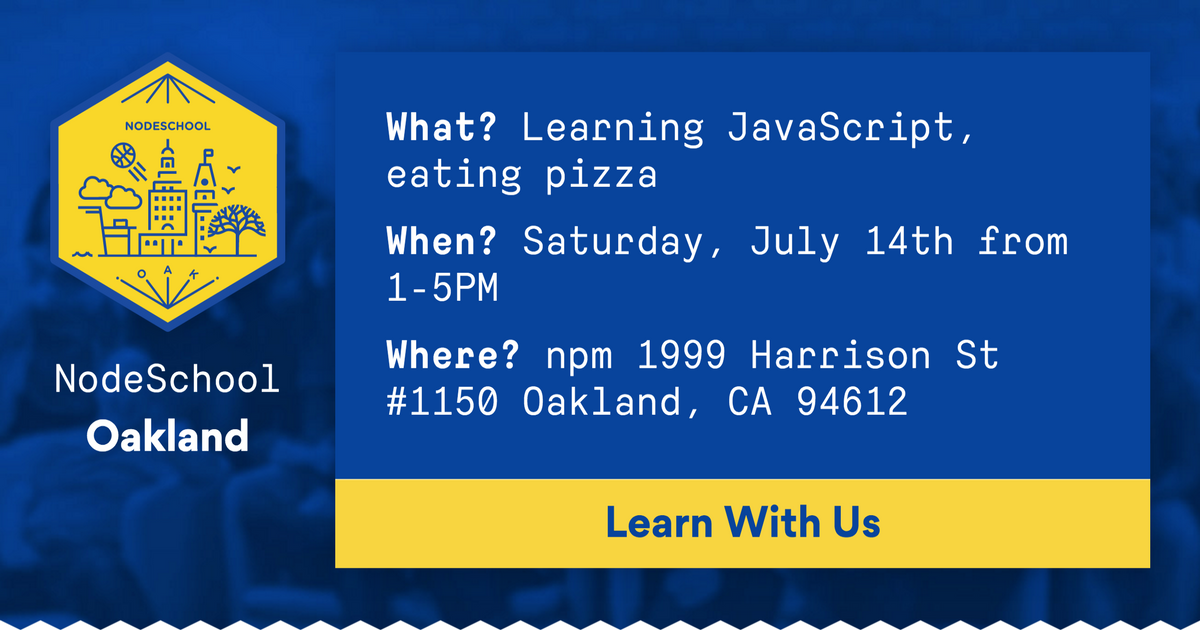
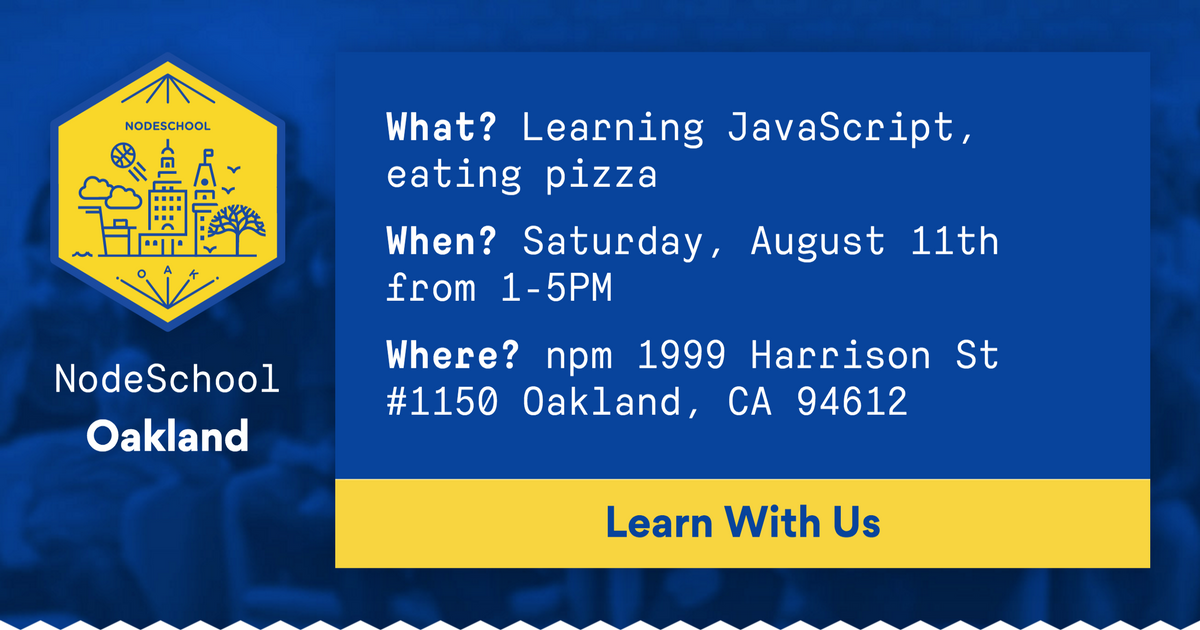
AUTOMATIC site update

Changed region(s): [[0.6167, 0.3619, 0.8942, 0.4222], [0.3083, 0.4222, 0.5242, 0.4825]]

diff --git a/docs/index.html b/docs/index.html
@@ -7,14 +7,14 @@
     <meta property="og:type" content="website" />
     <meta property="og:description" content="NodeSchool Oakland is a monthly meetup dedicated to helping people learn JavaScript." />
     <meta property="og:url" content="https://nodeschool.io/oakland/" />
-    <meta property="og:image" content="https://nodeschool.io/oakland/images/social.png?t=1530380154127" />
+    <meta property="og:image" content="https://nodeschool.io/oakland/images/social.png?t=1532454059082" />
     <!--Twitter-->
     <meta name="twitter:card" content="summary_large_image">
     <meta name="twitter:site" content="@nodeschooloak">
     <meta name="twitter:creator" content="@nodeschooloak">
     <meta name="twitter:title" content="NodeSchool Oakland">
     <meta name="twitter:description" content="NodeSchool Oakland is a monthly meetup dedicated to helping people learn JavaScript.">
-    <meta name="twitter:image" content="https://nodeschool.io/oakland/images/social.png?t=1530380154127">
+    <meta name="twitter:image" content="https://nodeschool.io/oakland/images/social.png?t=1532454059082">
 
     <title>NodeSchool Oakland</title>
     <link rel="stylesheet" href="./styles/index.css" />
@@ -63,10 +63,10 @@
 
           <div class="next-event">
             <div class="next-event__description">
-              <h2 class="next-event__heading">Our Next Event is on July 14th</h2>
+              <h2 class="next-event__heading">Our Next Event is on August 11th</h2>
               <ul class="next-event__info">
                 <li class="next-event__info__item">
-                  <strong class="strong--alt">When?</strong> Saturday, July 14th from 1-5PM
+                  <strong class="strong--alt">When?</strong> Saturday, August 11th from 1-5PM
                 </li>
                 <li class="next-event__info__item">
                   <strong class="strong--alt">Where?</strong> npm 1999 Harrison St #1150 Oakland, CA 94612 [<a href="http://maps.google.com/?q=1999%20Harrison%20St%20%231150%20Oakland%2C%20CA%2094612">map</a>]
@@ -77,9 +77,9 @@
               </ul>
             </div>
             <nav class="next-event__actions">
-              <a class="next-event__action__learner next-event__action button" href="https:&#x2F;&#x2F;ti.to&#x2F;nodeschool-oakland&#x2F;nodeschool-oakland-july-2018">
+              <a class="next-event__action__learner next-event__action button" href="https:&#x2F;&#x2F;ti.to&#x2F;nodeschool-oakland&#x2F;nodeschool-oakland-august-2018">
                 Sign up as a Learner
-              </a><a class="next-event__action__mentor next-event__action button" href="https:&#x2F;&#x2F;github.com&#x2F;nodeschool&#x2F;oakland&#x2F;issues&#x2F;64">
+              </a><a class="next-event__action__mentor next-event__action button" href="https:&#x2F;&#x2F;github.com&#x2F;nodeschool&#x2F;oakland&#x2F;issues&#x2F;66">
                 Sign up as a Mentor
               </a>
             </nav>
@@ -157,7 +157,7 @@
           please contact an organizer immediately.</p>
           <h3><strong>NodeSchool Oakland</strong></h3>
           <ul>
-          <li>Organizers: Timothy Kempf (<a href="https://twitter.com/takempf">@takempf</a>)</li>
+          <li>Organizers: Timothy Kempf (<a href="https://twitter.com/takempf">@takempf</a>) and DJ Gill (<a href="https://twitter.com/dejongill">@dejongill</a></li>
           <li>Meetup URL: <a href="http://nodeschool.io/oakland/">http://nodeschool.io/oakland/</a></li>
           </ul>
           <p><strong>If you have questions or feedback about this Code of Conduct please contact

diff --git a/docs/social.html b/docs/social.html
@@ -20,7 +20,7 @@
         <div class="social__message next-event">
           <div class="next-event__description">
             <p><strong>What?</strong> Learning JavaScript, eating pizza</p>
-            <p><strong>When?</strong> Saturday, July 14th from 1-5PM</p>
+            <p><strong>When?</strong> Saturday, August 11th from 1-5PM</p>
             <p><strong>Where?</strong> npm 1999 Harrison St #1150 Oakland, CA 94612</p>
           </div>
           <div class="next-event__actions">
